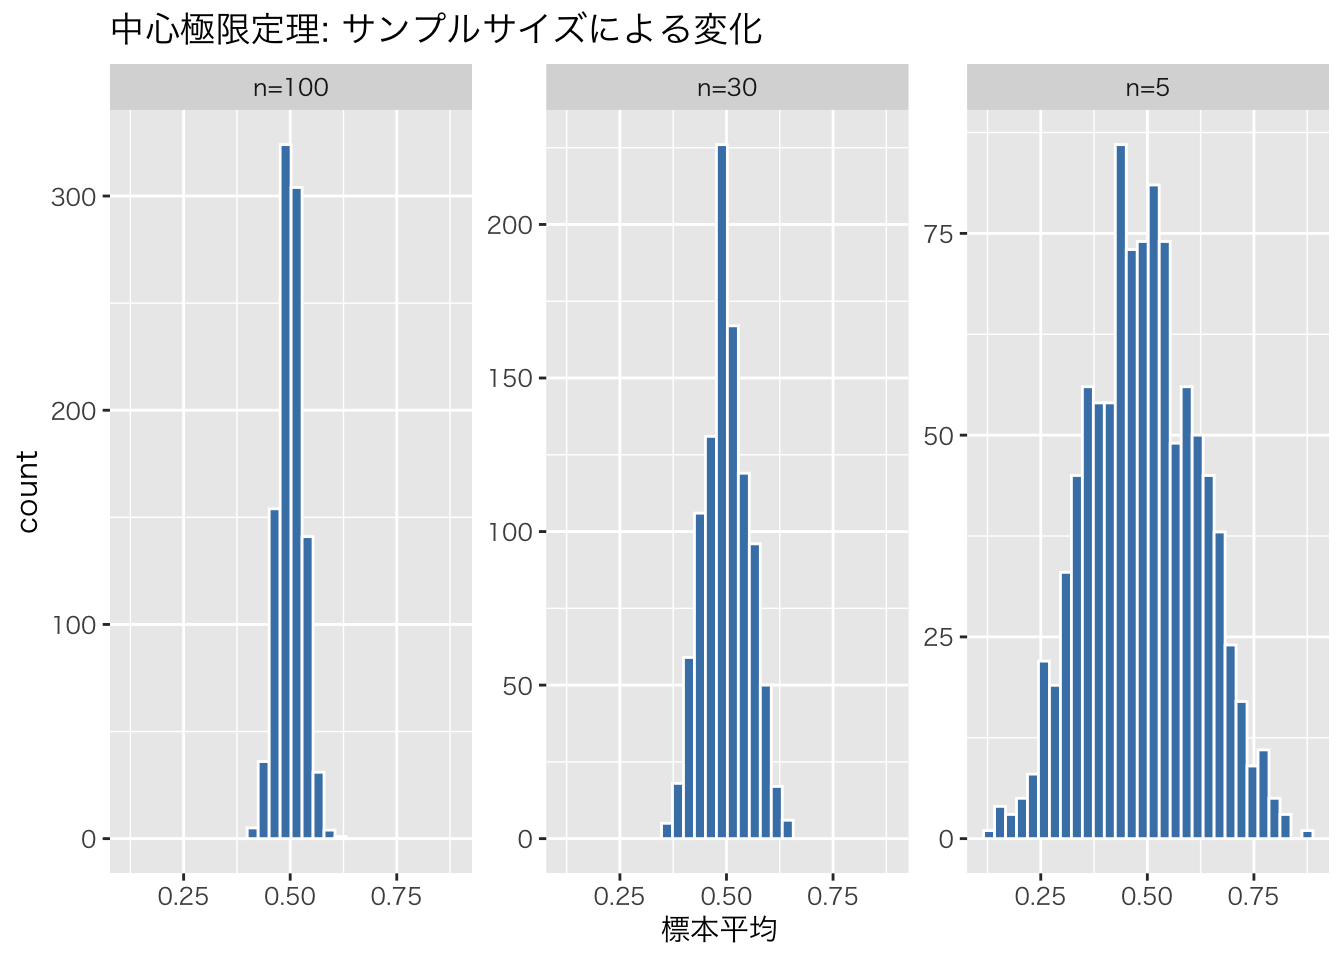
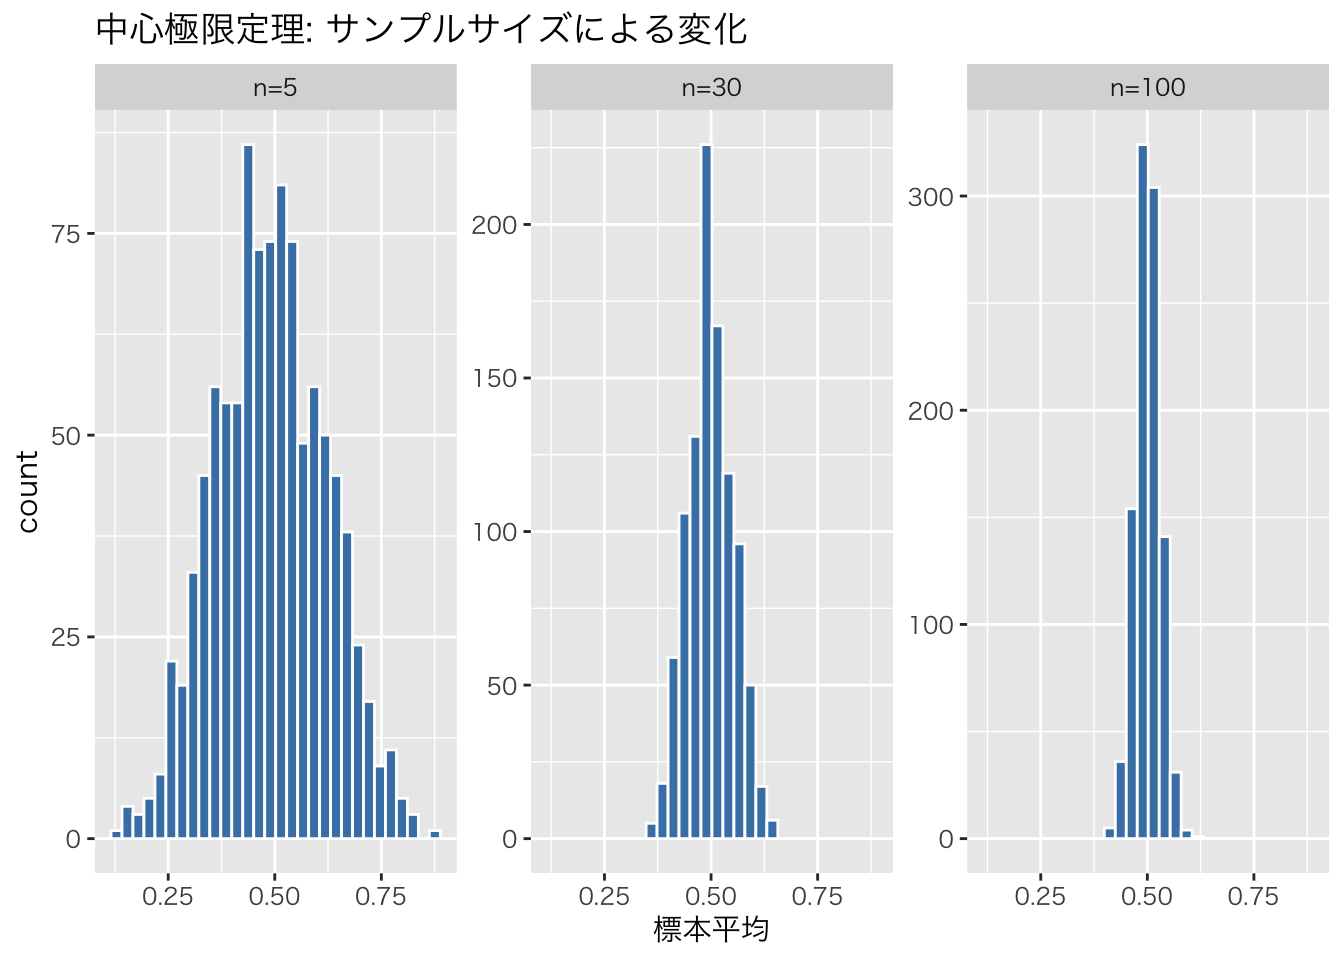
docs: **「サンプリング」** 章のコンテンツと図を更新

diff --git a/docs/07_sampling.html b/docs/07_sampling.html
@@ -262,6 +262,11 @@ window.Quarto = {
   <li><a href="#今回の目標" id="toc-今回の目標" class="nav-link active" data-scroll-target="#今回の目標">今回の目標</a></li>
   <li><a href="#母集団と標本" id="toc-母集団と標本" class="nav-link" data-scroll-target="#母集団と標本">母集団と標本</a>
   <ul class="collapse">
+  <li><a href="#基本的な定義" id="toc-基本的な定義" class="nav-link" data-scroll-target="#基本的な定義">基本的な定義</a></li>
+  <li><a href="#ランダム標本-random-sample" id="toc-ランダム標本-random-sample" class="nav-link" data-scroll-target="#ランダム標本-random-sample">ランダム標本 (Random Sample)</a></li>
+  <li><a href="#推測統計学-inferential-statistics" id="toc-推測統計学-inferential-statistics" class="nav-link" data-scroll-target="#推測統計学-inferential-statistics">推測統計学 (Inferential Statistics)</a></li>
+  <li><a href="#確率変数としての母集団" id="toc-確率変数としての母集団" class="nav-link" data-scroll-target="#確率変数としての母集団">確率変数としての母集団</a></li>
+  <li><a href="#ランダム標本の数学的性質" id="toc-ランダム標本の数学的性質" class="nav-link" data-scroll-target="#ランダム標本の数学的性質">ランダム標本の数学的性質</a></li>
   <li><a href="#なぜ標本を使うのか" id="toc-なぜ標本を使うのか" class="nav-link" data-scroll-target="#なぜ標本を使うのか">なぜ標本を使うのか</a></li>
   <li><a href="#母数と統計量" id="toc-母数と統計量" class="nav-link" data-scroll-target="#母数と統計量">母数と統計量</a></li>
   <li><a href="#母集団と標本のイメージ" id="toc-母集団と標本のイメージ" class="nav-link" data-scroll-target="#母集団と標本のイメージ">母集団と標本のイメージ</a></li>
@@ -322,11 +327,45 @@ window.Quarto = {
 </section>
 <section id="母集団と標本" class="level2">
 <h2 class="anchored" data-anchor-id="母集団と標本">母集団と標本</h2>
+<section id="基本的な定義" class="level3">
+<h3 class="anchored" data-anchor-id="基本的な定義">基本的な定義</h3>
 <ul>
-<li><strong>母集団 (Population)</strong>: 知りたい対象全体の集まり（例：日本人全員）。</li>
-<li><strong>標本 (Sample)</strong>: 母集団から一部を取り出したもの（例：ランダムに選んだ1000人）。</li>
-<li><strong>推測統計</strong>: 標本のデータから、母集団の性質（パラメータ）を推測すること。</li>
+<li><strong>母集団 (Population)</strong>: 調査対象全体の集まり。知りたい情報を持つ全ての対象を指します（例：日本人全員の身長、ある企業の全製品）。</li>
+<li><strong>標本 (Sample)</strong>: 母集団から一部を取り出したもの（例：ランダムに選んだ1000人、工場から抜き取った100個の製品）。</li>
 </ul>
+<p><strong>重要な事実</strong>: 私たちが実際に手にするデータの多くは<strong>標本</strong>です。母集団全体のデータを得ることは、コストや時間の制約から現実的ではありません。</p>
+</section>
+<section id="ランダム標本-random-sample" class="level3">
+<h3 class="anchored" data-anchor-id="ランダム標本-random-sample">ランダム標本 (Random Sample)</h3>
+<p>標本が母集団から<strong>無作為に抽出</strong>されたとき、これを<strong>ランダム標本</strong>と呼びます。</p>
+<p>ランダム標本の特徴： - 母集団のどの要素も等しい確率で選ばれる - 各抽出が互いに独立である - 母集団を偏りなく代表する</p>
+<p><strong>横断面データ</strong>（ある時点での複数の個体のデータ）は、通常ランダム標本と考えます。 例：2024年1月に実施した1000人の消費者調査データ</p>
+</section>
+<section id="推測統計学-inferential-statistics" class="level3">
+<h3 class="anchored" data-anchor-id="推測統計学-inferential-statistics">推測統計学 (Inferential Statistics)</h3>
+<p><strong>標本から母集団の特徴を推測すること</strong>を推測統計学といいます。</p>
+<ul>
+<li><strong>記述統計学</strong>：手元のデータを要約・記述する（これまで学んできたこと）</li>
+<li><strong>推測統計学</strong>：標本データから母集団について結論を導く（これから学ぶこと）</li>
+</ul>
+</section>
+<section id="確率変数としての母集団" class="level3">
+<h3 class="anchored" data-anchor-id="確率変数としての母集団">確率変数としての母集団</h3>
+<p>推測統計学では、母集団を<strong>確率変数</strong>と仮定します。</p>
+<p>なぜ確率変数として扱うのか： - 母集団から標本を抽出する行為は「ランダムな試行」 - 同じ母集団から何度も標本を取れば、毎回異なる値が得られる - この不確実性を数学的に扱うために、確率変数の枠組みを使う</p>
+</section>
+<section id="ランダム標本の数学的性質" class="level3">
+<h3 class="anchored" data-anchor-id="ランダム標本の数学的性質">ランダム標本の数学的性質</h3>
+<p>サイズ <span class="math inline">\(N\)</span> のランダム標本 <span class="math inline">\(X_1, X_2, \ldots, X_N\)</span> は：</p>
+<ol type="1">
+<li><strong>N個の母集団のコピー</strong>と考えることができる</li>
+<li>それぞれが<strong>独立同一分布 (i.i.d.: independent and identically distributed)</strong> に従う確率変数</li>
+</ol>
+<p><strong>独立同一分布とは</strong>： - <strong>同一分布 (identically distributed)</strong>: 全ての <span class="math inline">\(X_i\)</span> が同じ母集団分布に従う - <strong>独立 (independent)</strong>: 各 <span class="math inline">\(X_i\)</span> の値は互いに影響を与えない</p>
+<p>数学的には： <span class="math display">\[X_1, X_2, \ldots, X_N \sim \text{i.i.d.} \quad F(\cdot)\]</span></p>
+<p>ここで <span class="math inline">\(F(\cdot)\)</span> は母集団の分布を表します。</p>
+<p><strong>具体例</strong>： - 母集団：ある会社の全従業員の年収（平均500万円、標準偏差100万円の正規分布に従うと仮定） - ランダム標本（N=100）：無作為に選んだ100人の年収データ <span class="math inline">\(X_1, \ldots, X_{100}\)</span> - 各 <span class="math inline">\(X_i\)</span> は独立に <span class="math inline">\(N(500, 100^2)\)</span> から抽出された確率変数</p>
+</section>
 <section id="なぜ標本を使うのか" class="level3">
 <h3 class="anchored" data-anchor-id="なぜ標本を使うのか">なぜ標本を使うのか</h3>
 <ul>
@@ -480,12 +519,15 @@ window.Quarto = {
 <span id="cb4-14"><a href="#cb4-14" aria-hidden="true" tabindex="-1"></a>  <span class="at">sample_size =</span> <span class="fu">rep</span>(<span class="fu">paste0</span>(<span class="st">"n="</span>, sample_sizes), <span class="at">each =</span> n_samples)</span>
 <span id="cb4-15"><a href="#cb4-15" aria-hidden="true" tabindex="-1"></a>)</span>
 <span id="cb4-16"><a href="#cb4-16" aria-hidden="true" tabindex="-1"></a></span>
-<span id="cb4-17"><a href="#cb4-17" aria-hidden="true" tabindex="-1"></a><span class="co"># プロット</span></span>
-<span id="cb4-18"><a href="#cb4-18" aria-hidden="true" tabindex="-1"></a><span class="fu">ggplot</span>(df_clt, <span class="fu">aes</span>(<span class="at">x =</span> means)) <span class="sc">+</span></span>
-<span id="cb4-19"><a href="#cb4-19" aria-hidden="true" tabindex="-1"></a>  <span class="fu">theme_gray</span>(<span class="at">base_family =</span> <span class="st">"HiraKakuProN-W3"</span>) <span class="sc">+</span></span>
-<span id="cb4-20"><a href="#cb4-20" aria-hidden="true" tabindex="-1"></a>  <span class="fu">geom_histogram</span>(<span class="at">bins =</span> <span class="dv">30</span>, <span class="at">fill =</span> <span class="st">"steelblue"</span>, <span class="at">color =</span> <span class="st">"white"</span>) <span class="sc">+</span></span>
-<span id="cb4-21"><a href="#cb4-21" aria-hidden="true" tabindex="-1"></a>  <span class="fu">facet_wrap</span>(<span class="sc">~</span>sample_size, <span class="at">scales =</span> <span class="st">"free_y"</span>) <span class="sc">+</span></span>
-<span id="cb4-22"><a href="#cb4-22" aria-hidden="true" tabindex="-1"></a>  <span class="fu">labs</span>(<span class="at">title =</span> <span class="st">"中心極限定理: サンプルサイズによる変化"</span>, <span class="at">x =</span> <span class="st">"標本平均"</span>)</span></code><button title="Copy to Clipboard" class="code-copy-button"><i class="bi"></i></button></pre></div>
+<span id="cb4-17"><a href="#cb4-17" aria-hidden="true" tabindex="-1"></a><span class="co"># サンプルサイズの順序を明示的に設定</span></span>
+<span id="cb4-18"><a href="#cb4-18" aria-hidden="true" tabindex="-1"></a>df_clt<span class="sc">$</span>sample_size <span class="ot">&lt;-</span> <span class="fu">factor</span>(df_clt<span class="sc">$</span>sample_size, <span class="at">levels =</span> <span class="fu">paste0</span>(<span class="st">"n="</span>, sample_sizes))</span>
+<span id="cb4-19"><a href="#cb4-19" aria-hidden="true" tabindex="-1"></a></span>
+<span id="cb4-20"><a href="#cb4-20" aria-hidden="true" tabindex="-1"></a><span class="co"># プロット</span></span>
+<span id="cb4-21"><a href="#cb4-21" aria-hidden="true" tabindex="-1"></a><span class="fu">ggplot</span>(df_clt, <span class="fu">aes</span>(<span class="at">x =</span> means)) <span class="sc">+</span></span>
+<span id="cb4-22"><a href="#cb4-22" aria-hidden="true" tabindex="-1"></a>  <span class="fu">theme_gray</span>(<span class="at">base_family =</span> <span class="st">"HiraKakuProN-W3"</span>) <span class="sc">+</span></span>
+<span id="cb4-23"><a href="#cb4-23" aria-hidden="true" tabindex="-1"></a>  <span class="fu">geom_histogram</span>(<span class="at">bins =</span> <span class="dv">30</span>, <span class="at">fill =</span> <span class="st">"steelblue"</span>, <span class="at">color =</span> <span class="st">"white"</span>) <span class="sc">+</span></span>
+<span id="cb4-24"><a href="#cb4-24" aria-hidden="true" tabindex="-1"></a>  <span class="fu">facet_wrap</span>(<span class="sc">~</span>sample_size, <span class="at">scales =</span> <span class="st">"free_y"</span>) <span class="sc">+</span></span>
+<span id="cb4-25"><a href="#cb4-25" aria-hidden="true" tabindex="-1"></a>  <span class="fu">labs</span>(<span class="at">title =</span> <span class="st">"中心極限定理: サンプルサイズによる変化"</span>, <span class="at">x =</span> <span class="st">"標本平均"</span>)</span></code><button title="Copy to Clipboard" class="code-copy-button"><i class="bi"></i></button></pre></div>
 <div class="cell-output-display">
 <div>
 <figure class="figure">
